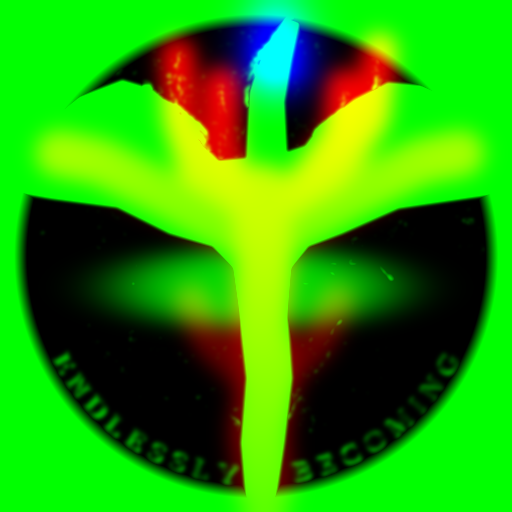
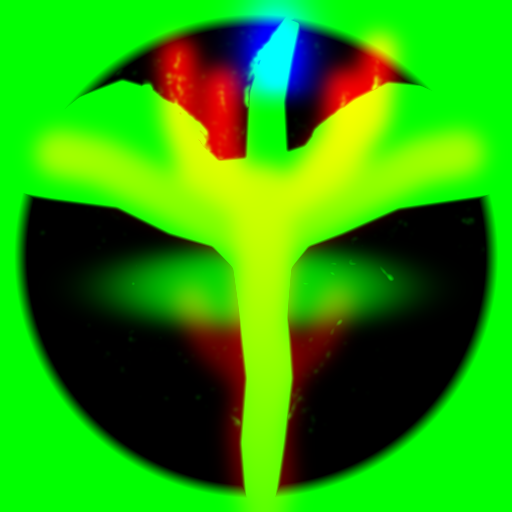
Calmer head, drop rim text; glass files with frosted title cards
- Loader: head movement about a third as large and turns as one piece
  (neck barely bends); ENDLESSLY BECOMING removed
- Files: smoked-glass casings (black to dark grey with a light grey
  reflection, translucent, backdrop blur); title cards in frosted
  yellow-white glass with the dark showing through
- Papers: full-width strips stacked back to front (harsh black-and-white,
  yellow, light yellow, white); files overlap more and sit higher

Claude-Session: https://claude.ai/code/session_01GEiCiMgUdnFGueHPjJC2GJ

Changed region(s): [[0.0938, 0.6875, 0.4688, 0.9688], [0.5625, 0.6875, 0.9062, 0.9688], [0.5, 0.1562, 0.5938, 0.25]]

diff --git a/index.html b/index.html
@@ -110,13 +110,10 @@
       <div class="filing-cabinet">
       <button type="button" class="folder" data-folder="sound" style="--i:1">
         <span class="folder-papers" aria-hidden="true">
-          <span class="paper paper--kraft" style="--x:8%;--w:7%;--h:20px;--r:-1.3deg"></span>
-          <span class="paper paper--cream" style="--x:10%;--w:13%;--h:18px;--r:-1.9deg"></span>
-          <span class="paper paper--cream" style="--x:14%;--w:15%;--h:18px;--r:-1.9deg"></span>
-          <span class="paper paper--photo-b" style="--x:20%;--w:4%;--h:15px;--r:0.6deg"></span>
-          <span class="paper paper--photo-b" style="--x:52%;--w:4%;--h:21px;--r:0.4deg"></span>
-          <span class="paper paper--cream" style="--x:70%;--w:10%;--h:12px;--r:0.2deg"></span>
-          <span class="paper paper--aged" style="--x:84%;--w:11%;--h:18px;--r:-1.6deg"></span>
+          <span class="paper paper--yellow" style="--l:0.5%;--rr:1.3%;--h:29px"></span>
+          <span class="paper paper--yellow" style="--l:0.2%;--rr:0.8%;--h:23px"></span>
+          <span class="paper paper--bw" style="--l:1.3%;--rr:2.2%;--h:20px"></span>
+          <span class="paper paper--bw" style="--l:1.5%;--rr:1.0%;--h:17px"></span>
         </span>
         <span class="folder-tab"><span class="folder-label" data-i18n="cat_sound_label">SOUND</span></span>
         <span class="folder-body">
@@ -126,12 +123,10 @@
       </button>
       <button type="button" class="folder" data-folder="visual-direction" style="--i:2">
         <span class="folder-papers" aria-hidden="true">
-          <span class="paper paper--photo-b" style="--x:14%;--w:5%;--h:17px;--r:-1.8deg"></span>
-          <span class="paper paper--cream" style="--x:24%;--w:8%;--h:21px;--r:-1.9deg"></span>
-          <span class="paper paper--aged" style="--x:40%;--w:14%;--h:22px;--r:0.1deg"></span>
-          <span class="paper paper--aged" style="--x:72%;--w:12%;--h:19px;--r:0.4deg"></span>
-          <span class="paper paper--photo" style="--x:74%;--w:6%;--h:16px;--r:-1.1deg"></span>
-          <span class="paper paper--aged" style="--x:76%;--w:10%;--h:13px;--r:0.3deg"></span>
+          <span class="paper paper--bw" style="--l:0.1%;--rr:0.5%;--h:26px"></span>
+          <span class="paper paper--yellow" style="--l:1.5%;--rr:1.9%;--h:20px"></span>
+          <span class="paper paper--lightyellow" style="--l:1.1%;--rr:2.1%;--h:14px"></span>
+          <span class="paper paper--yellow" style="--l:1.6%;--rr:1.2%;--h:8px"></span>
         </span>
         <span class="folder-tab"><span class="folder-label" data-i18n="cat_visual_label">VISUAL DIRECTION</span></span>
         <span class="folder-body">
@@ -141,14 +136,11 @@
       </button>
       <button type="button" class="folder" data-folder="scenography" style="--i:3">
         <span class="folder-papers" aria-hidden="true">
-          <span class="paper paper--photo" style="--x:10%;--w:5%;--h:24px;--r:-0.7deg"></span>
-          <span class="paper paper--photo" style="--x:16%;--w:7%;--h:12px;--r:2.0deg"></span>
-          <span class="paper paper--cream" style="--x:38%;--w:15%;--h:21px;--r:1.3deg"></span>
-          <span class="paper paper--aged" style="--x:44%;--w:12%;--h:17px;--r:0.9deg"></span>
-          <span class="paper paper--photo-b" style="--x:58%;--w:7%;--h:21px;--r:1.3deg"></span>
-          <span class="paper paper--cream" style="--x:64%;--w:8%;--h:16px;--r:-0.1deg"></span>
-          <span class="paper paper--cream" style="--x:66%;--w:8%;--h:12px;--r:1.0deg"></span>
-          <span class="paper paper--kraft" style="--x:78%;--w:14%;--h:16px;--r:1.0deg"></span>
+          <span class="paper paper--bw" style="--l:1.8%;--rr:0.8%;--h:26px"></span>
+          <span class="paper paper--yellow" style="--l:1.3%;--rr:0.1%;--h:23px"></span>
+          <span class="paper paper--bw" style="--l:1.0%;--rr:2.1%;--h:17px"></span>
+          <span class="paper paper--white" style="--l:0.2%;--rr:0.0%;--h:14px"></span>
+          <span class="paper paper--bw" style="--l:0.5%;--rr:2.3%;--h:11px"></span>
         </span>
         <span class="folder-tab"><span class="folder-label" data-i18n="cat_sceno_label">SCENOGRAPHY</span></span>
         <span class="folder-body">
@@ -158,14 +150,9 @@
       </button>
       <button type="button" class="folder" data-folder="talent-representation" style="--i:4">
         <span class="folder-papers" aria-hidden="true">
-          <span class="paper paper--cream" style="--x:4%;--w:10%;--h:24px;--r:-0.9deg"></span>
-          <span class="paper paper--cream" style="--x:16%;--w:10%;--h:18px;--r:-0.5deg"></span>
-          <span class="paper paper--aged" style="--x:22%;--w:14%;--h:13px;--r:-1.5deg"></span>
-          <span class="paper paper--photo" style="--x:46%;--w:8%;--h:16px;--r:1.7deg"></span>
-          <span class="paper paper--aged" style="--x:60%;--w:13%;--h:20px;--r:-1.0deg"></span>
-          <span class="paper paper--photo" style="--x:64%;--w:6%;--h:22px;--r:1.7deg"></span>
-          <span class="paper paper--aged" style="--x:80%;--w:9%;--h:13px;--r:-1.4deg"></span>
-          <span class="paper paper--aged" style="--x:90%;--w:7%;--h:12px;--r:-0.1deg"></span>
+          <span class="paper paper--white" style="--l:1.0%;--rr:1.4%;--h:29px"></span>
+          <span class="paper paper--yellow" style="--l:1.9%;--rr:0.7%;--h:23px"></span>
+          <span class="paper paper--bw" style="--l:0.8%;--rr:0.0%;--h:17px"></span>
         </span>
         <span class="folder-tab"><span class="folder-label" data-i18n="cat_talent_label">TALENT REPRESENTATION</span></span>
         <span class="folder-body">
@@ -175,14 +162,10 @@
       </button>
       <button type="button" class="folder" data-folder="event-curation" style="--i:5">
         <span class="folder-papers" aria-hidden="true">
-          <span class="paper paper--photo-b" style="--x:2%;--w:8%;--h:17px;--r:2.0deg"></span>
-          <span class="paper paper--cream" style="--x:20%;--w:15%;--h:21px;--r:0.7deg"></span>
-          <span class="paper paper--cream" style="--x:24%;--w:7%;--h:19px;--r:1.8deg"></span>
-          <span class="paper paper--aged" style="--x:34%;--w:15%;--h:18px;--r:-0.4deg"></span>
-          <span class="paper paper--photo" style="--x:38%;--w:4%;--h:19px;--r:0.6deg"></span>
-          <span class="paper paper--cream" style="--x:48%;--w:10%;--h:13px;--r:2.1deg"></span>
-          <span class="paper paper--photo" style="--x:54%;--w:5%;--h:13px;--r:-0.7deg"></span>
-          <span class="paper paper--cream" style="--x:70%;--w:8%;--h:12px;--r:0.3deg"></span>
+          <span class="paper paper--bw" style="--l:0.1%;--rr:2.0%;--h:29px"></span>
+          <span class="paper paper--yellow" style="--l:1.7%;--rr:0.5%;--h:26px"></span>
+          <span class="paper paper--yellow" style="--l:2.5%;--rr:1.9%;--h:11px"></span>
+          <span class="paper paper--white" style="--l:1.6%;--rr:0.3%;--h:8px"></span>
         </span>
         <span class="folder-tab"><span class="folder-label" data-i18n="cat_event_label">EVENT CURATION</span></span>
         <span class="folder-body">
@@ -192,14 +175,10 @@
       </button>
       <button type="button" class="folder" data-folder="exhibitions" style="--i:6">
         <span class="folder-papers" aria-hidden="true">
-          <span class="paper paper--cream" style="--x:4%;--w:11%;--h:17px;--r:0.5deg"></span>
-          <span class="paper paper--photo" style="--x:10%;--w:4%;--h:13px;--r:1.5deg"></span>
-          <span class="paper paper--photo" style="--x:14%;--w:7%;--h:19px;--r:-0.8deg"></span>
-          <span class="paper paper--aged" style="--x:20%;--w:8%;--h:23px;--r:-0.7deg"></span>
-          <span class="paper paper--kraft" style="--x:28%;--w:14%;--h:23px;--r:-1.5deg"></span>
-          <span class="paper paper--cream" style="--x:48%;--w:10%;--h:20px;--r:-0.6deg"></span>
-          <span class="paper paper--cream" style="--x:50%;--w:15%;--h:12px;--r:1.1deg"></span>
-          <span class="paper paper--kraft" style="--x:80%;--w:8%;--h:23px;--r:1.5deg"></span>
+          <span class="paper paper--lightyellow" style="--l:2.5%;--rr:0.0%;--h:20px"></span>
+          <span class="paper paper--yellow" style="--l:1.0%;--rr:2.1%;--h:17px"></span>
+          <span class="paper paper--bw" style="--l:0.1%;--rr:0.4%;--h:14px"></span>
+          <span class="paper paper--white" style="--l:0.6%;--rr:1.9%;--h:8px"></span>
         </span>
         <span class="folder-tab"><span class="folder-label" data-i18n="cat_exhib_label">EXHIBITIONS</span></span>
         <span class="folder-body">
@@ -209,14 +188,10 @@
       </button>
       <button type="button" class="folder" data-folder="private-art" style="--i:7">
         <span class="folder-papers" aria-hidden="true">
-          <span class="paper paper--cream" style="--x:22%;--w:10%;--h:21px;--r:1.4deg"></span>
-          <span class="paper paper--aged" style="--x:30%;--w:10%;--h:24px;--r:-1.1deg"></span>
-          <span class="paper paper--photo" style="--x:44%;--w:5%;--h:15px;--r:0.1deg"></span>
-          <span class="paper paper--kraft" style="--x:46%;--w:7%;--h:12px;--r:1.3deg"></span>
-          <span class="paper paper--photo" style="--x:48%;--w:6%;--h:15px;--r:0.8deg"></span>
-          <span class="paper paper--kraft" style="--x:66%;--w:14%;--h:24px;--r:1.9deg"></span>
-          <span class="paper paper--kraft" style="--x:70%;--w:12%;--h:13px;--r:-1.2deg"></span>
-          <span class="paper paper--aged" style="--x:82%;--w:14%;--h:15px;--r:-0.7deg"></span>
+          <span class="paper paper--bw" style="--l:0.5%;--rr:1.6%;--h:23px"></span>
+          <span class="paper paper--bw" style="--l:1.5%;--rr:0.9%;--h:20px"></span>
+          <span class="paper paper--white" style="--l:0.3%;--rr:1.5%;--h:17px"></span>
+          <span class="paper paper--yellow" style="--l:2.2%;--rr:0.5%;--h:8px"></span>
         </span>
         <span class="folder-tab"><span class="folder-label" data-i18n="cat_art_label">PRIVATE ART</span></span>
         <span class="folder-body">

diff --git a/styles.css b/styles.css
@@ -11,11 +11,6 @@
   --muted:#A79F90;
   --hairline: rgba(245,242,235,0.14);
   --v-squish: scaleY(0.9);
-  --jade-hi:#2a4c42;
-  --jade:#1b362f;
-  --jade-lo:#0f201b;
-  --tab-hi:#c7bfdb;
-  --tab:#aea5c6;
 
   --sans: "Helvetica Neue","Helvetica",Arial,sans-serif;
   --serif: "Times New Roman", Times, Georgia, serif;
@@ -163,7 +158,7 @@ button{font-family:inherit;background:none;border:none;color:inherit;cursor:poin
 
 /* ============ HOMEPAGE — DATABASE SECTION (reached on scroll) ============ */
 .database-section{ border-top:1px solid var(--hairline); }
-.db-heading{ max-width:1240px; margin:0 auto; padding:70px 32px 0; text-align:left; }
+.db-heading{ max-width:1240px; margin:0 auto; padding:52px 32px 0; text-align:left; }
 .db-heading-title{
   font-family:var(--sans); font-weight:700;
   font-size:clamp(20px,3vw,32px); letter-spacing:0.04em; color:var(--fg); margin:0;
@@ -174,7 +169,7 @@ button{font-family:inherit;background:none;border:none;color:inherit;cursor:poin
 }
 
 .filing-cabinet{
-  width:100%; margin:56px 0 0; padding:0 0 110px;
+  width:100%; margin:18px 0 0; padding:0 0 100px;
   display:flex; flex-direction:column;
   overflow-x:hidden;
 }
@@ -188,22 +183,25 @@ button{font-family:inherit;background:none;border:none;color:inherit;cursor:poin
   cursor:pointer; text-align:left; font:inherit; color:inherit;
   transition:transform .45s cubic-bezier(.2,.7,.2,1);
 }
-.folder + .folder{ margin-top:-60px; }
+.folder + .folder{ margin-top:-70px; }
 .folder:hover{ transform:translateY(-7px); }
 
-/* the title card */
+/* the title card: frosted yellow-white glass, the dark shows through */
 .folder-tab{
   position:relative; z-index:2; display:block;
   margin:0 0 -1px 0; padding:10px 24px 9px;
   max-width:calc(100% - 32px);
-  background:linear-gradient(180deg, var(--tab-hi) 0%, var(--tab) 100%);
+  background:linear-gradient(180deg, rgba(255,248,220,0.30) 0%, rgba(255,242,200,0.14) 100%);
+  -webkit-backdrop-filter:blur(12px) saturate(130%); backdrop-filter:blur(12px) saturate(130%);
+  border:1px solid rgba(255,250,232,0.32); border-bottom:none;
   border-radius:12px 12px 0 0;
-  box-shadow:inset 0 1px 0 rgba(255,255,255,0.35);
-  transition:filter .3s ease;
+  box-shadow:inset 0 1px 0 rgba(255,255,255,0.35), inset 0 -8px 14px rgba(255,240,200,0.06);
+  transition:background .3s ease;
 }
 .folder-label{
-  font-weight:500; font-size:11.5px; letter-spacing:0.14em; color:#221d2c;
+  font-weight:500; font-size:11.5px; letter-spacing:0.14em; color:#fbf6e6;
   white-space:nowrap; overflow:hidden; text-overflow:ellipsis; display:block;
+  text-shadow:0 1px 2px rgba(0,0,0,0.45);
 }
 /* hand-placed so the tabs never line up in a column */
 .folder:nth-child(1) .folder-tab{ margin-left:68%; }
@@ -214,55 +212,49 @@ button{font-family:inherit;background:none;border:none;color:inherit;cursor:poin
 .folder:nth-child(6) .folder-tab{ margin-left:4%; }
 .folder:nth-child(7) .folder-tab{ margin-left:31%; }
 
-/* the dark jade casing */
+/* the file: smoked glass, black to dark grey with a light grey reflection */
 .folder-body{
   position:relative; z-index:1; display:block;
   width:100%; height:var(--body-h);
   background:
-    linear-gradient(104deg, rgba(170,235,205,0.07) 0%, transparent 28%, rgba(170,235,205,0.045) 56%, transparent 74%),
-    linear-gradient(180deg, var(--jade-hi) 0%, var(--jade) 38%, var(--jade-lo) 100%);
+    linear-gradient(100deg, rgba(255,255,255,0.00) 8%, rgba(210,210,214,0.10) 22%, rgba(255,255,255,0.00) 34%,
+                            rgba(255,255,255,0.00) 60%, rgba(200,200,205,0.06) 72%, rgba(255,255,255,0.00) 84%),
+    linear-gradient(180deg, rgba(120,120,126,0.42) 0%, rgba(44,44,48,0.72) 28%, rgba(14,14,16,0.86) 70%, rgba(6,6,7,0.92) 100%);
+  -webkit-backdrop-filter:blur(14px) saturate(115%); backdrop-filter:blur(14px) saturate(115%);
+  border-top:1px solid rgba(255,255,255,0.22);
   border-radius:4px 4px 0 0;
-  box-shadow:0 -12px 26px rgba(0,0,0,0.5), inset 0 1px 0 rgba(190,245,220,0.2);
+  box-shadow:0 -12px 26px rgba(0,0,0,0.55), inset 0 1px 0 rgba(255,255,255,0.12);
   transition:filter .3s ease;
 }
 .folder-no, .folder-lock{
   position:absolute; top:15px;
   font-family:var(--sans); font-style:normal; font-weight:400;
-  font-size:10.5px; letter-spacing:0.26em; color:rgba(215,238,227,0.72);
+  font-size:10.5px; letter-spacing:0.26em; color:rgba(236,236,240,0.78);
   font-variant-numeric:tabular-nums; white-space:nowrap;
 }
 .folder-no{ left:26px; }
-.folder-lock{ right:26px; font-size:9.5px; color:rgba(215,238,227,0.45); }
+.folder-lock{ right:26px; font-size:9.5px; color:rgba(236,236,240,0.5); }
 
-/* papers tucked into each file, peeking out above it */
+/* papers filed inside: long strips running the full width, stacked back to front */
 .folder-papers{
   position:absolute; left:0; right:0; top:0; bottom:var(--body-h);
   z-index:0; pointer-events:none;
 }
 .paper{
-  position:absolute; bottom:-12px; left:var(--x); width:var(--w); height:calc(var(--h) + 12px);
-  transform:rotate(var(--r)); transform-origin:bottom center;
+  position:absolute; bottom:-12px; left:var(--l); right:var(--rr); height:calc(var(--h) + 12px);
   border-radius:1px;
-  box-shadow:0 -1px 0 rgba(255,255,255,0.25), 0 2px 5px rgba(0,0,0,0.35);
+  box-shadow:0 -1px 0 rgba(255,255,255,0.28), 0 -3px 8px rgba(0,0,0,0.35);
   transition:transform .45s cubic-bezier(.2,.7,.2,1);
 }
-.paper--cream{ background:linear-gradient(180deg, #efe7d3, #e2d8bf); }
-.paper--aged{ background:linear-gradient(180deg, #e2cf98, #cdb57a); }
-.paper--kraft{ background:linear-gradient(180deg, #b28f60, #9b774b); }
-.paper--photo, .paper--photo-b{
-  border:3px solid #ece8de; border-bottom:none;
-  background:
-    radial-gradient(ellipse 40% 55% at 30% 70%, rgba(255,255,255,0.22), transparent 70%),
-    linear-gradient(165deg, #a8a7a2 0%, #5c5b58 45%, #262625 100%);
+.paper--white{ background:linear-gradient(180deg, #f6f4ee, #e6e3da); }
+.paper--lightyellow{ background:linear-gradient(180deg, #f2e8c2, #e4d7a6); }
+.paper--yellow{ background:linear-gradient(180deg, #dcc583, #c8ae68); }
+.paper--bw{
+  background:linear-gradient(90deg, #050505 0%, #2a2a2a 14%, #efefef 26%, #111 41%, #dcdcdc 58%, #080808 72%, #bdbdbd 86%, #0d0d0d 100%);
 }
-.paper--photo-b{
-  background:
-    radial-gradient(ellipse 30% 60% at 68% 60%, rgba(0,0,0,0.45), transparent 70%),
-    linear-gradient(200deg, #d3d1cb 0%, #8a8984 50%, #434240 100%);
-}
-.folder:hover .paper{ transform:translateY(-5px) rotate(var(--r)); }
-.folder:hover .folder-body{ filter:brightness(1.12); }
-.folder:hover .folder-tab{ filter:brightness(1.06); }
+.folder:hover .paper{ transform:translateY(-4px); }
+.folder:hover .folder-body{ filter:brightness(1.18); }
+.folder:hover .folder-tab{ background:linear-gradient(180deg, rgba(255,248,220,0.40) 0%, rgba(255,242,200,0.2) 100%); }
 .folder:focus-visible .folder-tab{ outline:1px solid var(--fg); outline-offset:2px; }
 
 .site-footer{ padding:30px 20px 44px; border-top:1px solid var(--hairline); }
@@ -403,7 +395,7 @@ button{font-family:inherit;background:none;border:none;color:inherit;cursor:poin
 @media (max-width:900px){
   .tiles-row{ grid-template-columns:1fr; max-width:420px; margin:0 auto; }
   .folder{ --body-h:92px; }
-  .folder + .folder{ margin-top:-54px; }
+  .folder + .folder{ margin-top:-62px; }
   .folder:nth-child(1) .folder-tab{ margin-left:40%; }
   .folder:nth-child(2) .folder-tab{ margin-left:6%; }
   .folder:nth-child(3) .folder-tab{ margin-left:30%; }

diff --git a/script.js b/script.js
@@ -29,7 +29,6 @@ function startCoinFire(canvas){
     varying vec2 uv;
     uniform sampler2D coin;    // the finished medal
     uniform sampler2D flames;  // r: where fire may burn, g: raised relief it passes behind, b: head weight
-    uniform sampler2D words;   // r: ENDLESSLY BECOMING relief / 2, g: writing order, b: letter coverage
     uniform float t;
     float hash(vec2 p){ return fract(sin(dot(p, vec2(127.1, 311.7))) * 43758.5453); }
     float noise(vec2 p){
@@ -55,10 +54,10 @@ function startCoinFire(canvas){
         vec2 piv = vec2(0.5207, 0.2563);
         // ...and towards the end bows a little further down
         float dip = smoothstep(2.6, 3.9, t);
-        float a = ((0.045 * sin(t * 1.1) + 0.018 * sin(t * 2.3 + 1.0)) * (1.0 - 0.6 * dip) - 0.11 * dip) * m.b;
+        float a = ((0.014 * sin(t * 0.9) + 0.005 * sin(t * 1.9 + 1.0)) * (1.0 - 0.5 * dip) - 0.035 * dip) * m.b;
         vec2 d = uv - piv;
         st = piv + vec2(d.x * cos(a) - d.y * sin(a), d.x * sin(a) + d.y * cos(a));
-        st.y -= 0.012 * dip * m.b;
+        st.y -= 0.004 * dip * m.b;
       }
       vec4 c = texture2D(coin, st);
       if(m.r > 0.001){
@@ -87,12 +86,6 @@ function startCoinFire(canvas){
           c.rgb += (c.rgb * 0.6 + 0.2) * spec * 1.4;
         }
       }
-      // ENDLESSLY BECOMING is slowly written in along the rim, left to right
-      vec3 wd = texture2D(words, uv).rgb;
-      float p = clamp((t - 0.9) / 2.9, 0.0, 1.0) * 1.1 - 0.04;
-      float shown = clamp((p - wd.g) / 0.05, 0.0, 1.0);
-      c.rgb *= mix(1.0, wd.r * 2.0, shown);
-      c.rgb += c.rgb * exp(-pow((p - wd.g) / 0.018, 2.0)) * wd.b * 0.16 * step(p, 1.0);
       gl_FragColor = vec4(c.rgb * c.a, c.a);
     }`;
 
@@ -144,8 +137,7 @@ function startCoinFire(canvas){
     if(!still) raf = requestAnimationFrame(frame);
   }
   Promise.all([texture(0, 'coin', 'images/yvis-hausen-coin.png'),
-               texture(1, 'flames', 'images/coin-flames.png'),
-               texture(2, 'words', 'images/coin-text.png')])
+               texture(1, 'flames', 'images/coin-flames.png')])
     .then(() => { if(running) raf = requestAnimationFrame(frame); })
     .catch(() => {});
   return () => { running = false; cancelAnimationFrame(raf); };
